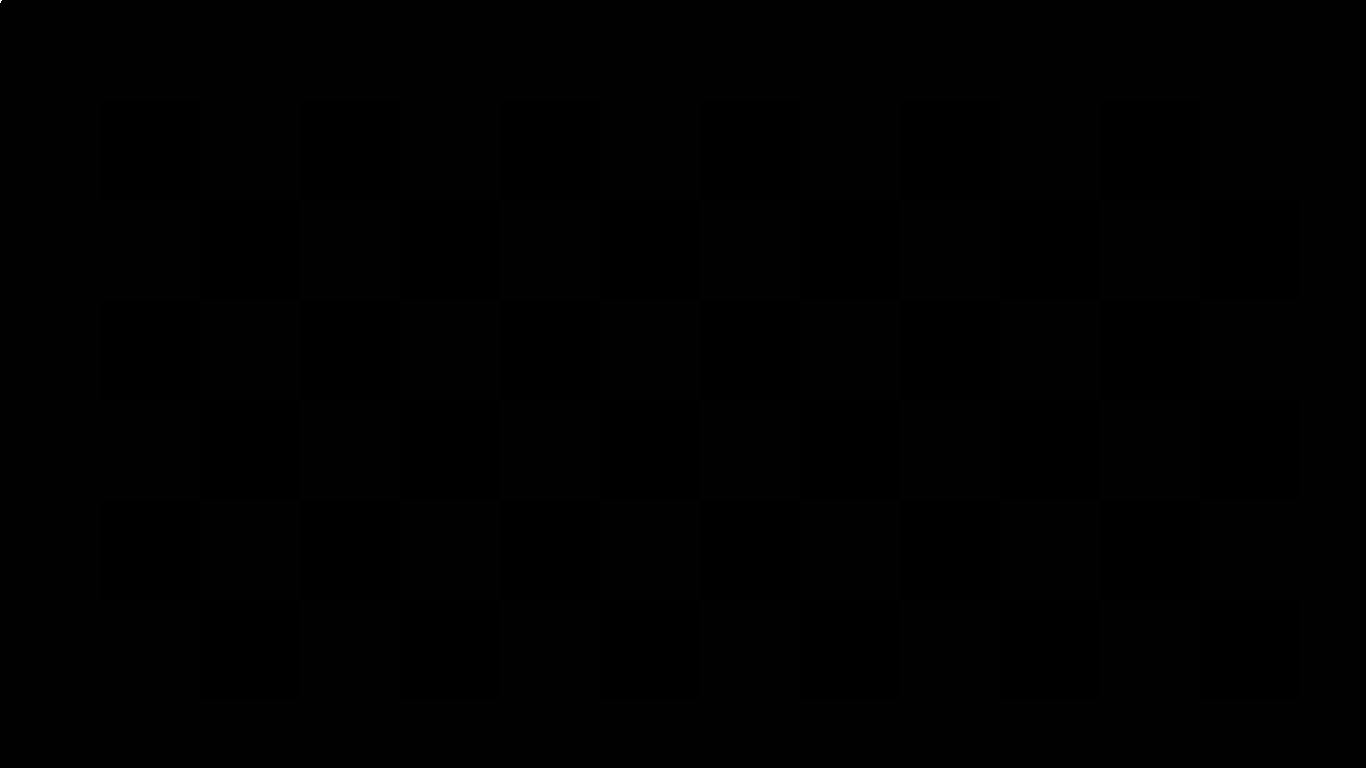
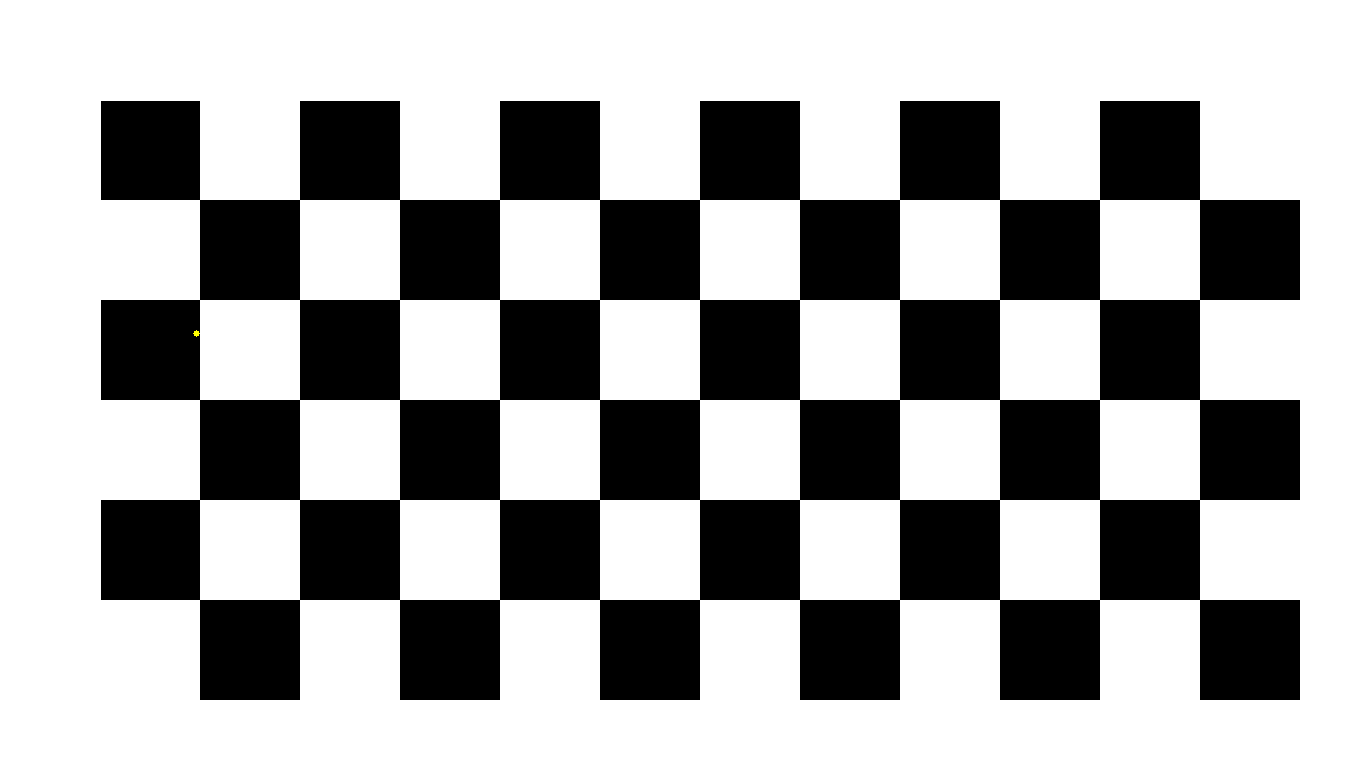
Projector detection

diff --git a/projector_detection/functions.py b/projector_detection/functions.py
@@ -1,0 +1,195 @@
+from screeninfo import get_monitors
+import numpy
+from numpy.linalg import inv
+
+import urllib.request
+import cv2
+
+URL = "http://192.168.46.114:8080/shot.jpg"
+
+
+def generate_chess_board(square_length=50):
+    width = 1366
+    height = 768
+
+    for m in get_monitors():
+        width = m.width
+        height = m.height
+
+    img = numpy.zeros([height, width], dtype="float32")
+
+    edge_height = height % square_length
+    edge_width = width % square_length
+
+    height_without_edge = height - edge_height
+    width_without_edge = width - edge_width
+
+    def checkBlackAndWhite(i, j):
+        if i <= square_length or i >= (len(img) - edge_height) or j <= square_length or j >= (len(img[0]) - edge_width):
+            return 1
+        return (-1 if (int(i / square_length)) % 2 == 0 else 1) * (1 if (int(j / square_length)) % 2 == 0 else -1)
+
+    for i, x in enumerate(img):
+        for j, y in enumerate(x):
+            img[i, j] = 0 if (checkBlackAndWhite(i, j) == -1) else 255
+
+    img = cv2.cvtColor(img, cv2.COLOR_GRAY2RGB)
+
+    return img, (height_without_edge / square_length) - 2, (
+            width_without_edge / square_length) - 2, edge_height, edge_width, width, height, square_length
+
+
+def show_chess_board(chess_board_img):
+    cv2.namedWindow("window", cv2.WND_PROP_FULLSCREEN)
+    # cv2.setWindowProperty("window", cv2.WND_PROP_FULLSCREEN, cv2.WINDOW_FULLSCREEN)
+    cv2.imshow("window", chess_board_img)
+
+
+def calibrate(source_function):
+    chess_board_img, width_corners, height_corners, edge_height, edge_width, width, height, length = generate_chess_board(
+        100)
+
+    objp = numpy.zeros((int(width_corners) * int(height_corners), 3), numpy.float32)
+    objp[:, :2] = numpy.mgrid[0:int(height_corners), 0:int(width_corners)].T.reshape(-1, 2)
+    object_points = []  # 3d point in real world space
+    image_points = []  # 2d points in image plane.
+
+    while True:
+        show_chess_board(chess_board_img)
+        img = source_function()
+        criteria = (cv2.TERM_CRITERIA_EPS + cv2.TERM_CRITERIA_MAX_ITER, 30, 0.001)
+        gray = cv2.cvtColor(img, cv2.COLOR_BGR2GRAY)
+        ret, corners = cv2.findChessboardCorners(gray, (int(height_corners), int(width_corners)), None)
+        if ret == True:
+            object_points.append(objp)
+            corners2 = cv2.cornerSubPix(gray, corners, (11, 11), (-1, -1), criteria)
+            image_points.append(corners)
+            _, camera_matrix, _, _, _ = cv2.calibrateCamera(object_points, image_points, gray.shape[::-1], None,
+                                                            None)
+            dist_coeffs = numpy.zeros((4, 1))
+
+            # reshaping
+            object_points = numpy.array(object_points[0])
+            image_points = numpy.array(image_points[0], dtype="double")
+            image_points = numpy.reshape(image_points, (image_points.shape[0], 2))
+
+            success, rotation_vector, translation_vector = cv2.solvePnP(object_points, image_points, camera_matrix,
+                                                                        dist_coeffs,
+                                                                        flags=0)
+            rotation_matrix, _ = cv2.Rodrigues(rotation_vector)
+            return True, camera_matrix, rotation_matrix, translation_vector, rotation_vector, length, width, height, width_corners, height_corners, edge_width, edge_height, img
+        if cv2.waitKey(20) & 0xFF == ord('d'):
+            break
+
+
+def get_real_coordinates(pixel, camera_matrix, rotation_matrix, translation_vector, square_length):
+    z = 0
+    camMat = numpy.asarray(camera_matrix)
+    iRot = inv(rotation_matrix)
+    iCam = inv(camMat)
+
+    uvPoint = numpy.ones((3, 1))
+
+    # Image point
+    uvPoint[0, 0] = pixel[0]
+    uvPoint[1, 0] = pixel[1]
+
+    tempMat = numpy.matmul(numpy.matmul(iRot, iCam), uvPoint)
+    tempMat2 = numpy.matmul(iRot, translation_vector)
+
+    s = (z + tempMat2[2, 0]) / tempMat[2, 0]
+    wcPoint = numpy.matmul(iRot, (numpy.matmul(s * iCam, uvPoint) - translation_vector))
+
+    # wcPoint[2] will not be exactly equal to z, but very close to it
+    assert int(abs(wcPoint[2] - z) * (10 ** 8)) == 0
+    wcPoint[2] = z
+
+    return (int((wcPoint[0] + 2) * square_length), int((wcPoint[1] + 2) * square_length))
+
+
+def check_if_inside_the_screen(screen_width, screen_height, pixel, camera_matrix, rotation_matrix, translation_vector,
+                               square_length):
+    real_coordinates = get_real_coordinates(pixel, camera_matrix, rotation_matrix, translation_vector, square_length)
+    if (real_coordinates[0] < 0 or real_coordinates[1] < 0 or real_coordinates[0] > screen_height or real_coordinates[
+        0] > screen_width):
+        return False, real_coordinates
+    return True, real_coordinates
+
+
+def calibrate_from_chess_baord(source_function):
+    calibrated, camera_matrix, rotation_matrix, translation_vector, _, square_length, width, height, _, _, _, _, _ = calibrate(
+        source_function)
+    return lambda point: check_if_inside_the_screen(width, height, point, camera_matrix, rotation_matrix,
+                                                    translation_vector, square_length)
+
+
+def calibrate_from_configuration(camera_matrix, rotation_matrix, translation_vector, square_length, width, height):
+    return lambda point: check_if_inside_the_screen(width, height, point, camera_matrix, rotation_matrix,
+                                                    translation_vector, square_length)
+
+
+def getZoomedImage(img, corners_width, corners_hegiht, edge_width, edge_height, square_length, rotation_vector,
+                   translation_vector, camera_matrix, margin_right=0, margin_left=0, margin_top=0, margin_bottom=0):
+    dist_coeffs = numpy.zeros((4, 1))
+
+    edge_width_coordinate = edge_width / square_length
+    edge_height_coordinate = edge_height / square_length
+
+    top_left_point, _ = cv2.projectPoints((-2., -2., 0.), rotation_vector, translation_vector, camera_matrix,
+                                          dist_coeffs)
+    top_left_point = (int(top_left_point[0][0][0]), int(top_left_point[0][0][1]))
+    cv2.circle(img, top_left_point, 3, (255, 0, float(255), -1))
+
+    top_right_point, _ = cv2.projectPoints((-2., corners_width + edge_width_coordinate, 0.), rotation_vector,
+                                           translation_vector,
+                                           camera_matrix, dist_coeffs)
+    top_right_point = (int(top_right_point[0][0][0]), int(top_right_point[0][0][1]))
+    cv2.circle(img, top_right_point, 3, (255, 0, float(255), -1))
+
+    bottom_left_point, _ = cv2.projectPoints((corners_hegiht + edge_height_coordinate, -2., 0.), rotation_vector,
+                                             translation_vector, camera_matrix, dist_coeffs)
+    bottom_left_point = (int(bottom_left_point[0][0][0]), int(bottom_left_point[0][0][1]))
+    cv2.circle(img, bottom_left_point, 3, (255, 0, float(255), -1))
+
+    bottom_right_point, _ = cv2.projectPoints(
+        (corners_hegiht + edge_height_coordinate, corners_width + edge_width_coordinate, 0.),
+        rotation_vector, translation_vector, camera_matrix, dist_coeffs)
+    bottom_right_point = (int(bottom_right_point[0][0][0]), int(bottom_right_point[0][0][1]))
+    cv2.circle(img, bottom_right_point, 3, (255, 0, float(255), -1))
+
+    max_y = max(bottom_right_point[0], bottom_left_point[0], top_left_point[0], top_right_point[0]) + margin_bottom
+    min_y = min(bottom_right_point[0], bottom_left_point[0], top_left_point[0], top_right_point[0]) - margin_top
+
+    max_x = max(bottom_right_point[1], bottom_left_point[1], top_left_point[1], top_right_point[1]) + margin_right
+    min_x = min(bottom_right_point[1], bottom_left_point[1], top_left_point[1], top_right_point[1]) - margin_left
+
+    crop_img = img[min_x:max_x, min_y: max_y]
+    print(crop_img.shape, min_y, max_y, min_x, max_x)
+    cv2.imshow("resizedImage", img)
+    if crop_img.shape[0] > 0 and crop_img.shape[1] > 0:
+        cv2.imshow("cropedImage", crop_img)
+
+    cv2.waitKey()
+
+
+def mobile_source_function():
+    img_arr = numpy.array(
+        bytearray(urllib.request.urlopen(URL).read()), dtype=numpy.uint8)
+    return cv2.imdecode(img_arr, -1)
+
+
+# func = calibrate_from_chess_baord(mobile_source_function)
+# inside, real_coordinates = func((100, 100))
+#
+# print(inside, real_coordinates)
+
+calibrated, camera_matrix, _, translation_vector, rotation_vector, square_length, _, _, width_corners, height_corners, edge_width, edge_height, img = calibrate(
+    mobile_source_function)
+
+getZoomedImage(img, width_corners, height_corners, edge_width, edge_height, square_length, rotation_vector,
+               translation_vector, camera_matrix, 20, 10, 30, 40)
+# cv2.circle(img, point, 3, (0, 255, 255), -1)
+# cv2.circle(chess_img, real_point, 3, (0, 255, 255), -1)
+#
+# cv2.imwrite("chessboard.png", chess_img)
+# cv2.imwrite("result.png", img)

diff --git a/projector_detection/main.py b/projector_detection/main.py
@@ -1,0 +1,154 @@
+import numpy
+from numpy.linalg import inv
+import urllib.request
+import cv2
+from screeninfo import get_monitors
+
+def rescaleFrame(frame, scale=0.50):
+    width = int(frame.shape[1] * scale)
+    height = int(frame.shape[0] * scale)
+    dimensions = (width, height)
+
+    return cv2.resize(frame, dimensions, interpolation=cv2.INTER_AREA)
+
+def generateChessBoard(square_length = 50):
+    width = 1366
+    height = 768
+
+    for m in get_monitors():
+        width = m.width
+        height = m.height
+
+    img = numpy.zeros([height,width], dtype="float32")
+
+    edge_height = height % square_length
+    edge_width = width % square_length
+
+    height_without_edge = height - edge_height
+    width_without_edge = width - edge_width
+
+    def checkBlackAndWhite(i, j):
+        if i <= square_length or i >= (len(img) - edge_height)  or j <= square_length or j >= (len(img[0]) - edge_width):
+            return 1
+        return (-1 if (int(i/square_length)) % 2 == 0 else 1) * (1 if (int(j/square_length)) % 2 == 0 else -1)
+
+    for i, x in enumerate(img):
+        for j, y in enumerate(x):
+            img[i,j] = 0 if (checkBlackAndWhite(i,j) == -1) else 255
+
+    img = cv2.cvtColor(img, cv2.COLOR_GRAY2RGB)
+
+    return img, (height_without_edge / square_length) - 2, (width_without_edge / square_length) - 2, edge_height, edge_width, width, height, square_length
+
+
+def groundProjectPoint(image_point, camera_matrix, rotMat, tvec, z = 0.0):
+    camMat = numpy.asarray(camera_matrix)
+    iRot = inv(rotMat)
+    iCam = inv(camMat)
+
+    uvPoint = numpy.ones((3, 1))
+
+    # Image point
+    uvPoint[0, 0] = image_point[0]
+    uvPoint[1, 0] = image_point[1]
+
+    tempMat = numpy.matmul(numpy.matmul(iRot, iCam), uvPoint)
+    tempMat2 = numpy.matmul(iRot, tvec)
+
+    s = (z + tempMat2[2, 0]) / tempMat[2, 0]
+    wcPoint = numpy.matmul(iRot, (numpy.matmul(s * iCam, uvPoint) - tvec))
+
+    # wcPoint[2] will not be exactly equal to z, but very close to it
+    assert int(abs(wcPoint[2] - z) * (10 ** 8)) == 0
+    wcPoint[2] = z
+
+    return wcPoint
+
+
+
+URL = "http://192.168.1.101:8080/shot.jpg"
+
+# Generating Chessboard ...
+chess_board_img, width_corners, height_corners, edge_height, edge_width, width, height, length = generateChessBoard(100)
+# Detecting Chess board ...
+objp = numpy.zeros((int(width_corners) * int(height_corners), 3), numpy.float32)
+objp[:,:2] = numpy.mgrid[0:int(height_corners),0:int(width_corners)].T.reshape(-1,2)
+
+
+print("objp.shape = ",objp.shape)
+objpoints = [] # 3d point in real world space
+imgpoints = [] # 2d points in image plane.
+
+print(width_corners, height_corners)
+while True:
+    cv2.namedWindow("window", cv2.WND_PROP_FULLSCREEN)
+    cv2.setWindowProperty("window", cv2.WND_PROP_FULLSCREEN, cv2.WINDOW_FULLSCREEN)
+    cv2.imshow("window", chess_board_img)
+
+    img_arr = numpy.array(
+        bytearray(urllib.request.urlopen(URL).read()), dtype=numpy.uint8)
+    img = cv2.imdecode(img_arr, -1)
+    # img = rescaleFrame(img)
+    criteria = (cv2.TERM_CRITERIA_EPS + cv2.TERM_CRITERIA_MAX_ITER, 30, 0.001)
+    gray = cv2.cvtColor(img, cv2.COLOR_BGR2GRAY)
+    ret, corners = cv2.findChessboardCorners(gray, (int(height_corners),int(width_corners)), None)
+    if ret == True:
+        print("Find it")
+        objpoints.append(objp)
+        corners2 = cv2.cornerSubPix(gray, corners, (11, 11), (-1, -1), criteria)
+        imgpoints.append(corners)
+        # Draw and display the corners
+        # cv2.drawChessboardCorners(img, (int(height_corners),int(width_corners)), corners2, ret)
+
+        ret, cameraMatrix, dist, rvecs, tvecs = cv2.calibrateCamera(objpoints, imgpoints, gray.shape[::-1], None, None)
+
+        dist_coeffs = numpy.zeros((4, 1))
+
+        objpoints = numpy.array(objpoints[0])
+        imgpoints = numpy.array(imgpoints[0], dtype="double")
+        imgpoints = numpy.reshape(imgpoints,(imgpoints.shape[0],2))
+
+        success, rotation_vector, translation_vector = cv2.solvePnP(objpoints, imgpoints, cameraMatrix, dist_coeffs,
+                                                                    flags=0)
+        rotMat, _ = cv2.Rodrigues(rotation_vector)
+
+        pixel = (250, 250)
+        real_world_coordinates = groundProjectPoint(pixel, cameraMatrix, rotMat, translation_vector)
+        real_world_point = (int((real_world_coordinates[0] + 2) * length), int((real_world_coordinates[1] + 2) * length))
+        print("real_world_point = ",real_world_point)
+        print("real_world_coord = ",real_world_coordinates)
+        cv2.circle(img, pixel, 3, (0, 255, 255), -1)
+        cv2.circle(chess_board_img, real_world_point, 3, (0, 0, 255), -1)
+
+
+
+        # just for testing the coordinates
+        # new_point, jacobian = cv2.projectPoints((-2., -2., 0.), rotation_vector,
+        #                                                translation_vector, cameraMatrix, dist_coeffs)
+        # point2 = (int(new_point[0][0][0]), int(new_point[0][0][1]))
+        # cv2.circle(img, point2, 3, (255, 0, float(255), -1))
+
+        for p in imgpoints:
+            cv2.circle(img, (int(p[0]), int(p[1])), 3, (0, 0, 255), -1)
+
+
+
+
+        # h, w = img.shape[:2]
+        # newCameraMatrix, roi = cv2.getOptimalNewCameraMatrix(cameraMatrix, dist, (w, h), 1, (w, h))
+
+        # dst = cv2.undistort(img, cameraMatrix, dist, None, newCameraMatrix)
+
+        # x, y, w, h = roi
+        # dst = dst[y:y + h, x:x + w]
+
+        # cv2.imwrite('caliResult1.png', dst)
+        # cv2.imwrite('dist.png', dist)
+        cv2.imwrite('chessboard.png', chess_board_img * 255)
+        cv2.imwrite('base.png', img)
+        break
+
+    if cv2.waitKey(20) & 0xFF == ord('d'):
+        break
+
+

diff --git a/projector_detection/chess_board_generator.py b/projector_detection/chess_board_generator.py
@@ -1,0 +1,35 @@
+import numpy
+from screeninfo import get_monitors
+
+def generateChessBoard(square_length = 50):
+    width = 1366
+    height = 768
+
+    for m in get_monitors():
+        width = m.width
+        height = m.height
+
+    img = numpy.zeros([height,width])
+
+    edge_height = height % square_length + square_length
+    edge_width = width % square_length + square_length
+
+    height_without_edge = height - edge_height
+    width_without_edge = width - edge_width
+
+    def checkBlackAndWhite(i, j):
+        if i <= square_length or i >= (len(img) - edge_height)  or j <= square_length or j >= (len(img[0]) - edge_width):
+            return 1
+        return (1 if (int(i/square_length)) % 2 == 0 else -1) * (1 if (int(j/square_length)) % 2 == 0 else -1)
+
+    for i, x in enumerate(img):
+        for j, y in enumerate(x):
+            img[i,j] = checkBlackAndWhite(i,j)
+
+    return img, height_without_edge / square_length - 1, width_without_edge / square_length - 1, edge_height, edge_width, width, height
+
+
+
+
+# img, width_corners, height_corners, edge_height, edge_width = generateChessBoard(75)
+# print(width_corners, height_corners)

diff --git a/projector_detection/projector-detection.py b/projector_detection/projector-detection.py
@@ -5,10 +5,6 @@ import time
 import argparse
 import time
 
-from screeninfo import get_monitors
-for m in get_monitors():
-    print(str(m))
-
 
 def rescaleFrame(frame, scale=0.50):
     width = int(frame.shape[1] * scale)
